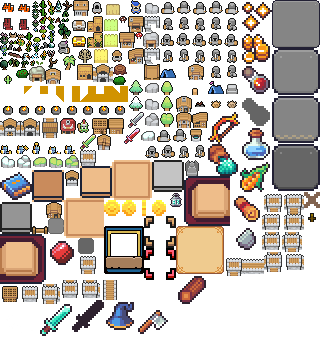
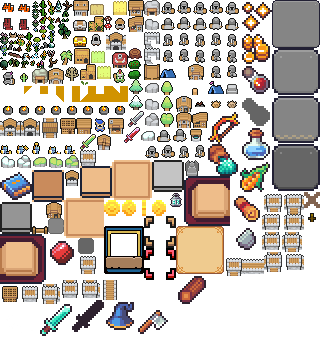
goblin fireplace animation

Changed region(s): [[0.0, 0.0, 0.75, 0.436]]

diff --git a/ts/src/rendering/animation/animationGraph.ts b/ts/src/rendering/animation/animationGraph.ts
@@ -50,3 +50,34 @@ export type AnimationGraph<T extends AnimationStateMap = AnimationStateMap> = {
     globalTransitions: AnimationTransition[];
     states: Record<string, AnimationState>;
 };
+
+/**
+ * Creates a simple looping animation graph for sprites that don't need
+ * state transitions. Useful for environmental animations like fires,
+ * water, or other ambient effects.
+ *
+ * @param sprite The sprite to loop through its frames
+ * @param speed Number of ticks between frame changes (default: 8)
+ * @returns An AnimationGraph with a single looping state
+ */
+export function loopAnimation(
+    sprite: Sprite2,
+    speed: number = 8,
+): AnimationGraph {
+    const animationKey = `loop_${sprite.id}`;
+
+    return {
+        animationSet: {
+            [animationKey]: sprite,
+        },
+        initialState: "Loop",
+        globalTransitions: [],
+        states: {
+            Loop: {
+                type: "loop",
+                animation: animationKey as AnimationTemplate,
+                speed,
+            },
+        },
+    };
+}

diff --git a/ts/src/game/prefab/goblinPrefab.ts b/ts/src/game/prefab/goblinPrefab.ts
@@ -1,5 +1,7 @@
 import { sprites2 } from "../../asset/sprite.js";
 import { generateId } from "../../common/idGenerator.js";
+import { loopAnimation } from "../../rendering/animation/animationGraph.js";
+import { createAnimationComponent } from "../component/animationComponent.js";
 import { createHealthComponent } from "../component/healthComponent.js";
 import { createSpriteComponent } from "../component/spriteComponent.js";
 import { Entity } from "../entity/entity.js";
@@ -13,6 +15,9 @@ export function goblinPrefab(): Entity {
 
 export function goblinFireplace(): Entity {
     const entity = new Entity(generateId("goblinFireplace"));
+
+    const loopingAnimation = loopAnimation(sprites2.stone_brazier, 4);
+    entity.setEcsComponent(createAnimationComponent(loopingAnimation));
     entity.setEcsComponent(createSpriteComponent(sprites2.stone_brazier));
     return entity;
 }

diff --git a/ts/src/game/interaction/state/root/building/buildingState.ts b/ts/src/game/interaction/state/root/building/buildingState.ts
@@ -248,7 +248,7 @@ export class BuildingState extends InteractionState {
 
         return uiScaffold({
             content: scaffoldContent,
-            rightButtons: [
+            leftButtons: [
                 {
                     text: "Build",
                     icon: sprites2.empty_sprite,

diff --git a/ts/src/data/inventory/items/naturalResource.ts b/ts/src/data/inventory/items/naturalResource.ts
@@ -31,7 +31,7 @@ export const swampTree2Resource = {
 } as const;
 
 export const swampFlowerResource = {
-    asset: sprites2.swamp_flower,
+    asset: sprites2.swamp_flower_duo,
     id: "swampFlower",
     name: "Swamp Flower",
 } as const;
